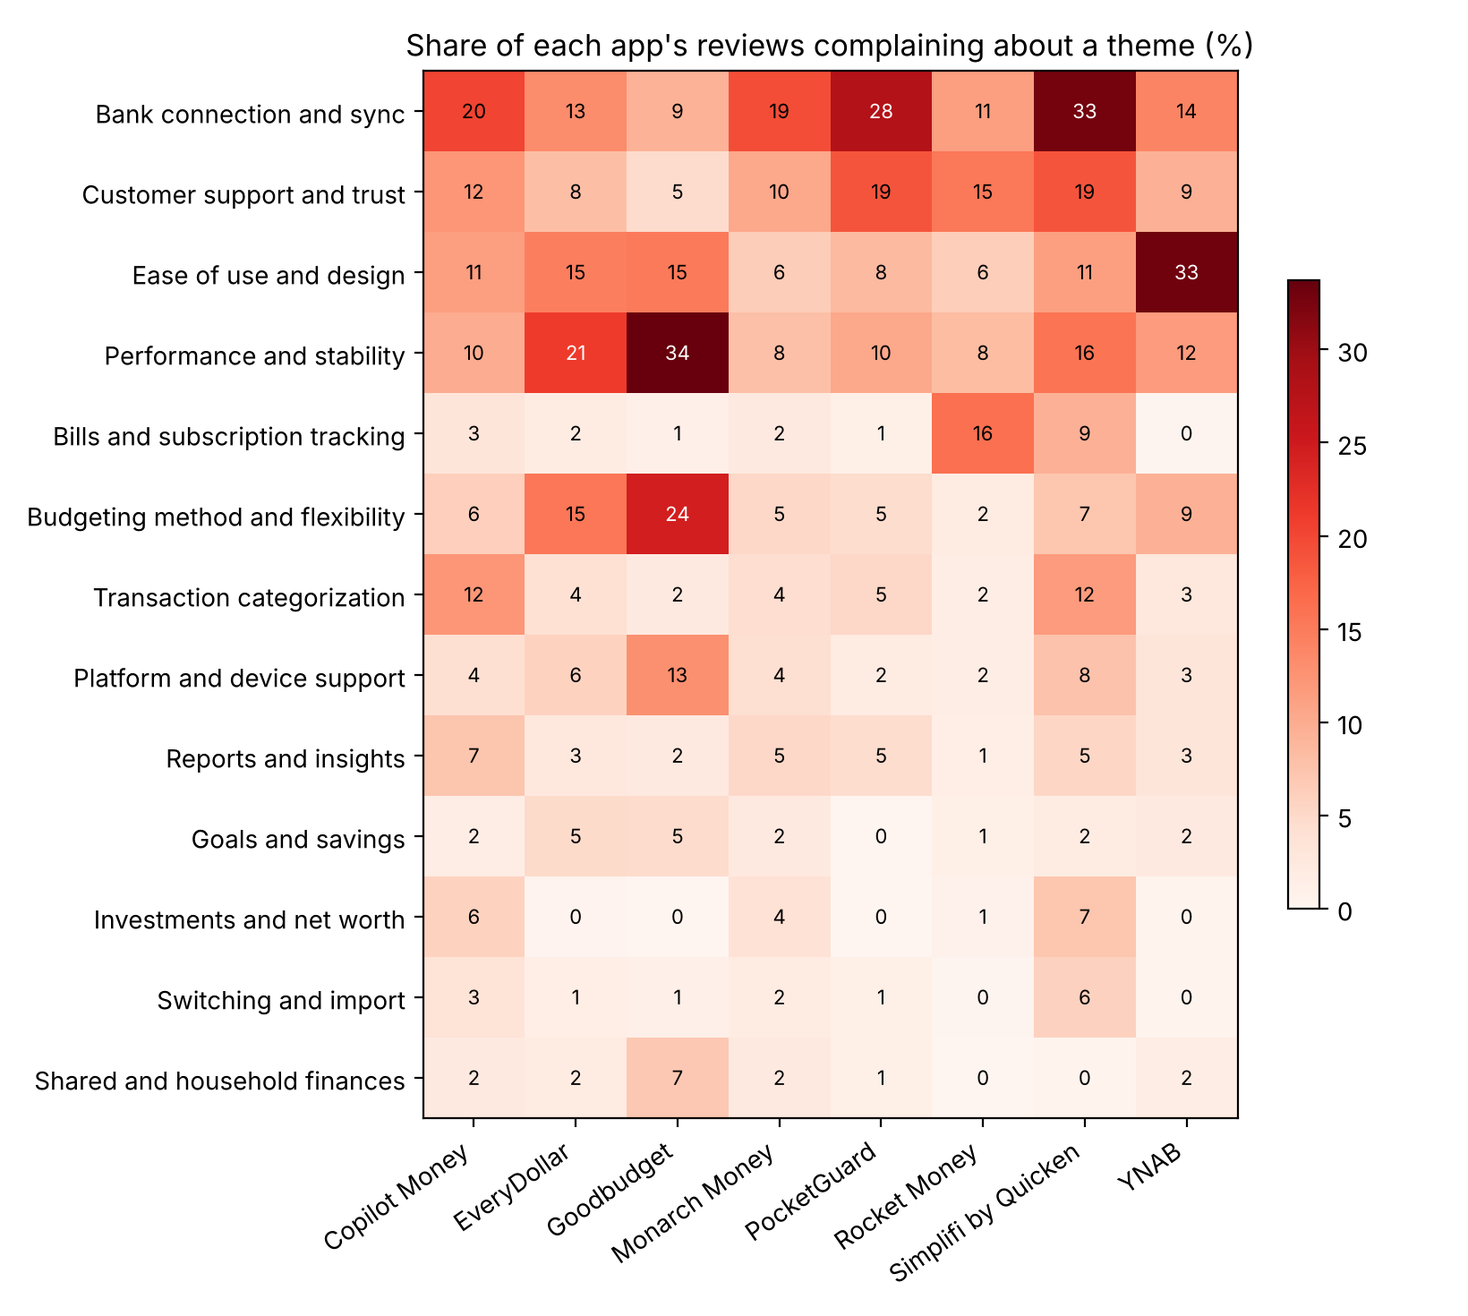
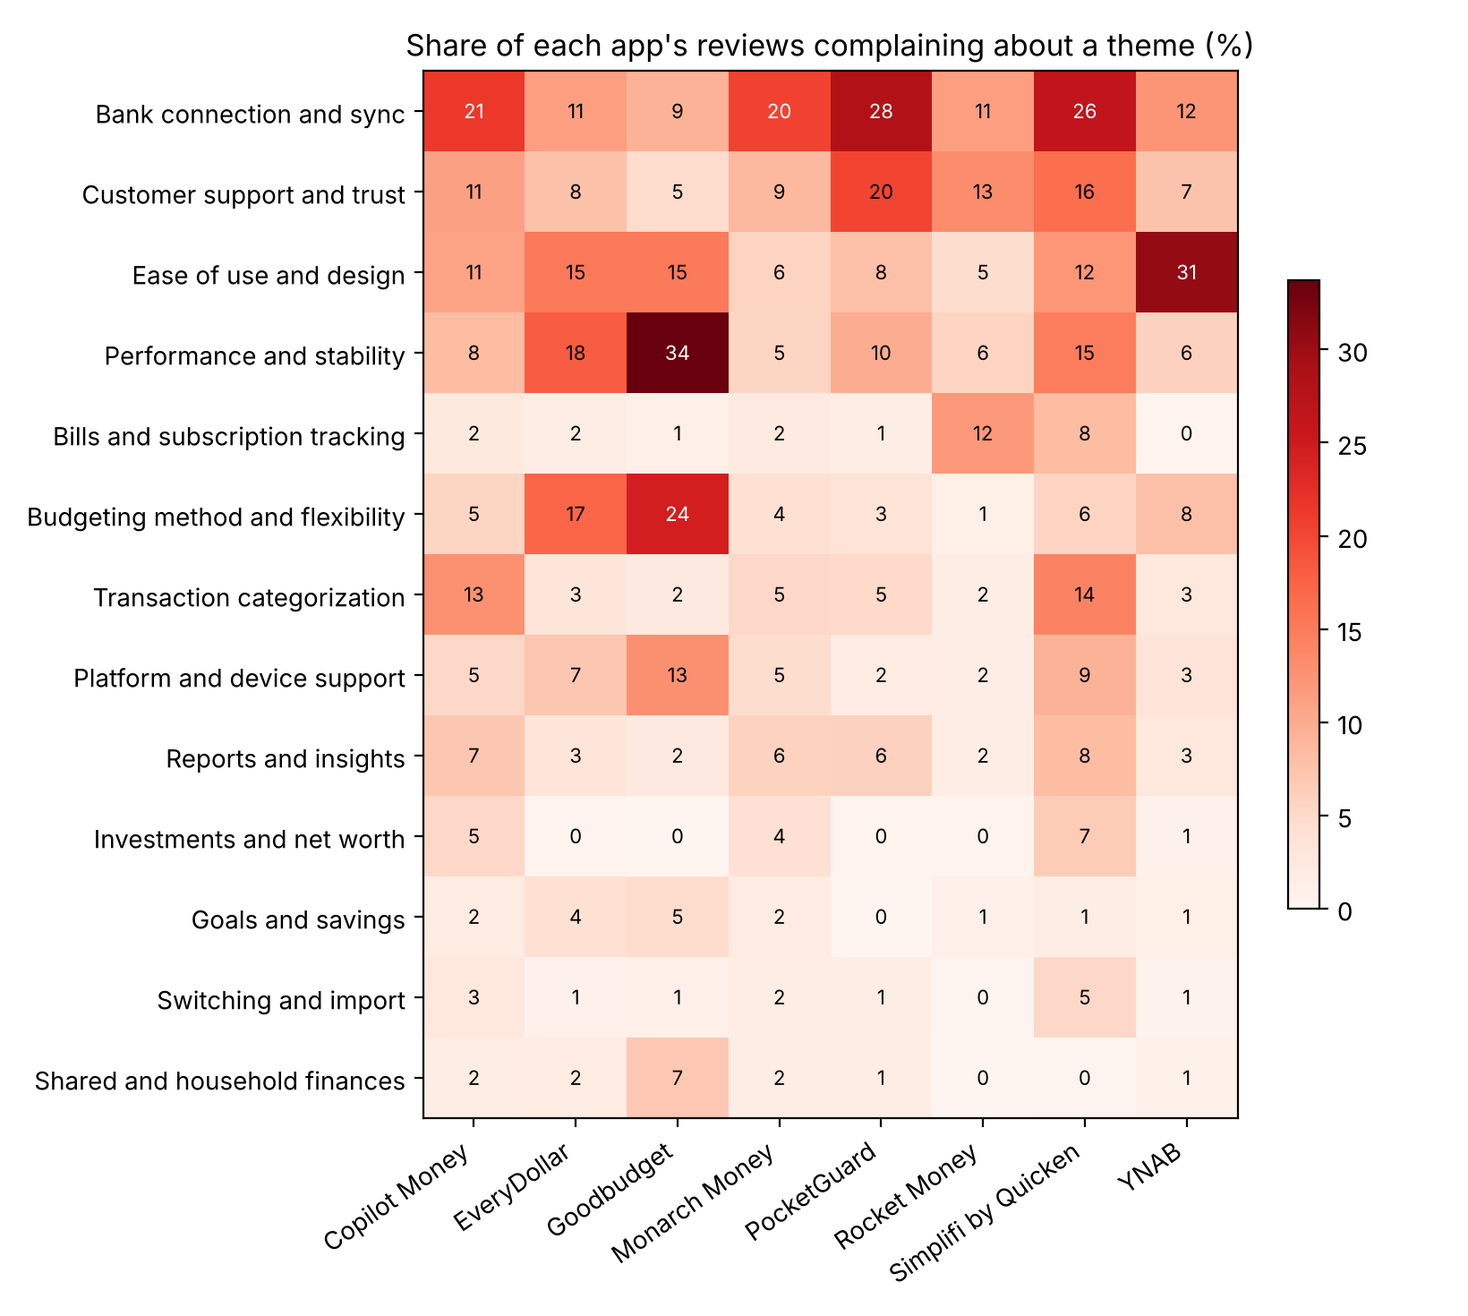
Final report on all 7,396 tagged reviews across 8 apps
Every scraped review is now tagged (2,550 via the API run, 4,846 in
session). Report, charts and tables are rebuilt from the full dataset;
bank sync remains the top cross-app pain point.

diff --git a/reports/REPORT.md b/reports/REPORT.md
@@ -1,44 +1,43 @@
 # State of Budgeting Apps: what users still can't get, from 8 apps' reviews
 
-*4 November 2026. 7,396 App Store and Google Play reviews scraped for 8 budgeting apps (5 Nov 2025 to 3 Nov 2026). 3,392 of them were tagged.*
+*4 November 2026. All 7,396 App Store and Google Play reviews for 8 budgeting apps from the last 12 months (5 Nov 2025 to 3 Nov 2026), every one tagged.*
 
 ## Summary
 
-1. **Broken bank sync is the problem no app has solved.** It's the only theme in the top four for all 8 apps, and it's above 5% of reviews in every one. The median is 16.7% of an app's reviews, ranging from 9.3% for Goodbudget, which is mostly manual entry, to 32.7% for Simplifi. One review in five (676 of 3,392) is about sync, and those reviews average 2.5 stars against 3.4 for the rest.
-2. **Updates are breaking long-time users' routines.** 257 complaint reviews (7.6%) blame a recent update or redesign. They cluster in YNAB (72), EveryDollar (62) and Monarch (43). Ease-of-use complaints reach 32.9% of YNAB's reviews.
-3. **Users can't reach a human for support.** Support and trust complaints exceed 5% in 7 of 8 apps, and reach 18.8% for PocketGuard and Simplifi. The recurring ask is a real person, not a chatbot.
-4. **App-specific gaps sit on top of that.** Rocket Money's subscription cancelling underdelivers (16.2% of its reviews). Goodbudget and EveryDollar have bugs and budget-math problems (33.7% and 21.2% performance complaints). Copilot is iOS only.
+1. **Broken bank sync is the problem no app has solved.** It's complained about in more than 5% of reviews for every one of the 8 apps. The median is 16.4% of an app's reviews, ranging from 9.3% for Goodbudget, which is mostly manual entry, to 27.9% for PocketGuard. Sync comes up in 1,327 reviews (18%), and those average 2.4 stars against 3.5 for the rest. Among international users the share is 77%.
+2. **Updates are breaking long-time users' routines.** 507 complaint reviews (6.9%) blame a recent update or redesign. They cluster in EveryDollar (18% of its reviews), Goodbudget (16%) and YNAB (15%). The most-repeated requests are "fewer taps" (39), "stable UI" (24) and "edit past months" (23).
+3. **Users can't reach a human for support.** Support and trust complaints exceed 5% in 7 of 8 apps, peaking at 20.1% for PocketGuard. Requests for "human support" come from 6 apps, and requests to opt out of AI features from 5.
+4. **App-specific gaps sit on top of that.** Rocket Money's subscription cancelling underdelivers: 26% of its reviews are about subscriptions, with 40 requests for cancellation that works and 31 for detecting every subscription. Goodbudget and EveryDollar have bugs and budget-math problems. YNAB's changes to its interface draw complaints in 30.5% of its reviews.
 
-**Product bet: sync you can trust.** Warn users the moment a connection fails. Refill missing history after a reconnect. Remove duplicates automatically. And say up front which banks work. It's the one gap every app shares, and much of the duplicate, missing-data and wrong-balance trouble traces back to it.
+**Product bet: sync you can trust.** Warn users the moment a connection fails. Refill missing history after a reconnect. Remove duplicates automatically, which users ask for in 7 of the 8 apps. And say up front which banks, credit unions, payment apps and non-US institutions work. It's the one gap every app shares, and much of the duplicate, missing-data and wrong-balance trouble traces back to it.
 
 *Pricing is left out on purpose. Price complaints appear for every paid app and don't point to a product gap. They are kept in the tags but excluded from the rankings and charts.*
 
 ## The data
 
-| App | Reviews scraped | Tagged | Avg rating (tagged) | Share of tagged that are pain |
+| App | Reviews | App Store / Play | Avg rating | Share that are pain |
 |---|---|---|---|---|
-| Rocket Money | 3,000 | 1,207 | 3.22 | 52% |
-| Monarch Money | 1,402 | 689 | 3.43 | 53% |
-| YNAB | 1,003 | 422 | 3.20 | 60% |
-| EveryDollar | 796 | 349 | 3.26 | 61% |
-| Copilot Money (iOS only) | 495 | 262 | 3.71 | 50% |
-| Simplifi by Quicken | 410 | 223 | 2.62 | 74% |
-| PocketGuard | 204 | 154 | 2.98 | 64% |
-| Goodbudget | 86 | 86 | 2.78 | 74% |
-| **Total** | **7,396** | **3,392** | | **57%** |
+| Rocket Money | 3,000 | 326 / 2,674 | 3.42 | 46% |
+| Monarch Money | 1,402 | 586 / 816 | 3.43 | 53% |
+| YNAB | 1,003 | 620 / 383 | 3.29 | 56% |
+| EveryDollar | 796 | 456 / 340 | 3.30 | 63% |
+| Copilot Money (iOS only) | 495 | 495 / 0 | 3.52 | 54% |
+| Simplifi by Quicken | 410 | 225 / 185 | 2.64 | 74% |
+| PocketGuard | 204 | 96 / 108 | 3.03 | 64% |
+| Goodbudget | 86 | 42 / 44 | 2.78 | 74% |
+| **Total** | **7,396** | **2,846 / 4,550** | | **54%** |
 
-Of the tagged reviews, 1,783 are from Google Play and 1,609 from the App Store.
-
-**Pain rate by theme:** the share of an app's tagged reviews that are negative or mixed about a theme, or report a bug, a missing feature or a complaint there.
+**Pain rate by theme:** the share of an app's reviews that are negative or mixed about a theme, or report a bug, a missing feature or a complaint there.
 
 | Theme | Copilot | EveryDollar | Goodbudget | Monarch | PocketGuard | Rocket | Simplifi | YNAB | Median |
 |---|---|---|---|---|---|---|---|---|---|
-| **Bank connection and sync** | 20.2% | 13.2% | 9.3% | 19.4% | **27.9%** | 11.4% | **32.7%** | 14.0% | **16.7%** |
-| Ease of use and design | 11.5% | 14.6% | 15.1% | 6.4% | 8.4% | 6.2% | 11.2% | **32.9%** | 11.4% |
-| Customer support and trust | 12.2% | 8.0% | 4.7% | 10.3% | **18.8%** | 15.4% | **18.8%** | 9.5% | 11.3% |
-| Performance and stability | 9.9% | 21.2% | **33.7%** | 7.8% | 10.4% | 8.3% | 15.7% | 11.6% | 11.0% |
-| Budgeting method | 6.1% | 15.5% | **24.4%** | 5.1% | 4.5% | 2.0% | 7.2% | 9.5% | 6.7% |
-| Bills and subscriptions | 3.1% | 1.7% | 1.2% | 2.3% | 1.3% | **16.2%** | 9.4% | 0.2% | 2.0% |
+| **Bank connection and sync** | 21.4% | 11.3% | 9.3% | 20.4% | **27.9%** | 11.3% | **26.3%** | 12.4% | **16.4%** |
+| Ease of use and design | 10.9% | 15.1% | 15.1% | 5.6% | 7.8% | 4.6% | 12.2% | **30.5%** | 11.6% |
+| Customer support and trust | 11.1% | 7.7% | 4.7% | 8.6% | **20.1%** | 13.2% | 16.3% | 7.4% | 9.9% |
+| Performance and stability | 8.3% | 18.0% | **33.7%** | 5.5% | 9.8% | 5.6% | 14.9% | 5.9% | 9.1% |
+| Budgeting method | 5.5% | 17.2% | **24.4%** | 4.0% | 3.4% | 1.2% | 5.6% | 7.9% | 5.6% |
+| Categorization | 12.7% | 3.1% | 2.3% | 5.1% | 4.9% | 1.7% | **14.1%** | 2.8% | 4.0% |
+| Bills and subscriptions | 2.4% | 1.6% | 1.2% | 2.1% | 1.5% | **11.9%** | 8.3% | 0.5% | 1.9% |
 
 Charts: `figures/pain_gap.png`, `figures/heatmap.png`. Tables: `pain_gap.csv`, `theme_by_app.csv`.
 
@@ -46,7 +45,17 @@ Charts: `figures/pain_gap.png`, `figures/heatmap.png`. Tables: `pain_gap.csv`, `
 
 ### 1. Bank sync, the floor no one has fixed
 
-The complaints repeat across apps: accounts silently disconnect, transactions arrive days late or not at all, reconnecting creates duplicates or wipes history, and some banks aren't supported at all. Several reviews say support blamed Plaid, a third party or a "known issue".
+The complaints repeat across apps: accounts silently disconnect, transactions arrive days late or not at all, reconnecting creates duplicates or wipes history, and some banks aren't supported at all.
+
+The most common sync requests:
+- automatic duplicate removal (22 reviews, 7 apps)
+- faster sync (19)
+- Cash App connection (16)
+- connections that don't depend on Plaid (14)
+- fewer re-authentications (12)
+- multi-currency support (9, 4 apps)
+- Canadian bank connections (9)
+- credit union connections (8)
 
 - "The team unfortunately never advises customers that they are having issues" (PocketGuard, `pocketguard:a:14485863334`)
 - "No notice in the app that it happened" (Copilot, `copilot:a:14709853188`)
@@ -59,13 +68,6 @@ The complaints repeat across apps: accounts silently disconnect, transactions ar
 
 **Why it matters:** "its value depends entirely on being able to sync with your financial institution" (PocketGuard, `pocketguard:a:14553856626`). When sync breaks, every budget, report and alert built on it is wrong.
 
-**The unmet need**, in users' words:
-- tell me when a connection fails
-- refill the gap after I reconnect
-- remove duplicates for me
-- tell me before I pay whether my bank, credit union, Venmo, Cash App or store card works
-- support non-US banks and multiple currencies
-
 ### 2. Updates that break what worked
 
 - "More scrolling and more taps for what used to take one tap" (YNAB, `ynab:a:14158438732`)
@@ -73,40 +75,40 @@ The complaints repeat across apps: accounts silently disconnect, transactions ar
 - "But since it's last upgrade nothing works" (Goodbudget, `goodbudget:g:27a0cf11-aa5d-4792-b32c-9764d74a8c51`)
 - "Why release an update when 2/3 of the tools aren’t even completed?" (PocketGuard, `pocketguard:a:14453021311`)
 
+Long-time users (384 reviews) are among the unhappiest: 60% of their reviews are complaints.
+
 **The unmet need:** stability for loyal users. That means testing before release, a way to keep the old layout, and no locking of data the user still wants to edit.
 
 ### 3. Support that can't escalate
 
 - "a Chatbot is not enough to help me" (Simplifi, `simplifi:a:14667818169`)
 
-When a bank link or the budget's numbers break, users want a ticket that a person actually picks up.
+When a bank link or the budget's numbers break, users want a ticket that a person actually picks up. A smaller but growing thread asks for a way to turn off AI features (12 reviews, 5 apps).
 
 ### 4. App-specific gaps
 
-- **Rocket Money:** subscription detection and cancellation miss many subscriptions (16.2% overall; higher among App Store reviewers).
+- **Rocket Money:** subscription detection and cancellation miss many subscriptions.
 - **Goodbudget and EveryDollar:** envelope totals and budget math break after updates, and EveryDollar's locked past months draw repeated complaints.
-- **YNAB:** churn in the interface (32.9% ease-of-use complaints). Users ask for the progress bars back and fewer taps.
-- **Copilot:** iOS only, and users ask for Android. It also has gaps tracking income categories and investment contributions.
+- **YNAB:** churn in the interface (30.5% ease-of-use complaints). Users ask for the progress bars back and fewer taps.
+- **Copilot and Simplifi:** auto-categorization complaints (12.7% and 14.1%). Copilot is iOS only.
 
 ### Who's happiest
 
-Copilot has the highest average rating (3.71) and the lowest share of complaints (50%). Former Mint users and couples are the most vocal segments: Mint is still the benchmark they compare apps with, and couples want joint and individual views plus per-person roles.
+- **Former Mint users** (165 reviews) average 4.1 stars. More than half of them are on Monarch.
+- **Couples and families** (257 reviews) are the most satisfied segment, with only 26% complaints. Their asks are joint and individual views and per-person roles.
+- **Copilot** has the highest average rating (3.52) and **Rocket Money** has the lowest share of complaints (46%), helped by many short positive Google Play reviews.
 
 ## Method
 
 1. **Collection.** A GitHub Actions workflow (`.github/workflows/scrape.yml`) runs `pipeline.find_ids` and `pipeline.scrape` on a GitHub runner. That's needed because this cloud session can't reach the app stores. It pulled the Apple customer-reviews feed from 7 English-language storefronts and Google Play (en, US) for the last 12 months. Store IDs were checked by hand (`config/apps.json`). Cleaning removed duplicates and reviews under 20 characters, leaving 7,396 reviews.
-2. **Tagging.** 2,550 reviews were tagged by `pipeline.tag` with `claude-opus-5-5` in the `analyze.yml` workflow, at a cost of $6.09. The run stopped when the API account's credit ran out. Another 842 reviews come from a seeded sample that Claude tagged by reading each review in the working session. All tags use the frozen 15-theme codebook (`config/themes.json`). Where a review had both, the API tag is used.
+2. **Tagging.** Every review is tagged against the frozen 15-theme codebook (`config/themes.json`). 2,550 were tagged by `pipeline.tag` with `claude-opus-5-5` in the `analyze.yml` workflow, at a cost of $6.09, before the API account's credit ran out. The other 4,846 were tagged by Claude reading each review in the working session, using the same schema. Where a review had both, the API tag is used.
 3. **Reliability.** 448 reviews were tagged both ways, independently. The two agree on primary theme 80% of the time (Cohen's kappa 0.78), on sentiment 94% (kappa 0.89) and on review type 90% (kappa 0.87). Kappa is agreement after removing what chance alone would give; above 0.6 counts as substantial and above 0.8 as almost perfect.
 4. **Analysis.** `python -m pipeline.analyze`. Pricing and "other" are excluded from the rankings. Every quote was checked word for word against its source review.
 
 ## Limits
 
-- **Not every review is tagged.** 3,392 of the 7,396 are, and Goodbudget (86) and PocketGuard (154) have small samples, so small gaps between apps don't mean much. The cross-app pattern holds: sync is above 5% in all 8 apps.
-- **Uneven samples.** Rocket Money makes up 36% of tagged reviews. Rates are calculated per app, so this doesn't skew comparisons between apps, but category-wide totals lean toward Rocket Money.
+- **Two taggers.** The two methods agree closely (see Reliability above), but they aren't identical.
+- **Uneven volume.** Rocket Money is 41% of all reviews, and Goodbudget (86) and PocketGuard (204) are small. Rates are calculated per app, so this doesn't skew comparisons between apps, but small gaps for the small apps don't mean much.
+- **Free sources cap volume.** Apple's feed returns at most about 500 reviews per storefront, and Google Play reviews are en-US only.
 - **No synthesis briefs.** The per-theme briefs from `pipeline.synthesize` didn't run because the credit ran out. The briefs above were written by hand from the tagged data.
-- **Free sources cap volume.** Apple's feed returns at most about 500 reviews per storefront.
-- **Review bias.** App-store reviewers lean toward the very unhappy and the very happy.
-
-## To finish the full run
-
-Add API credit, then re-run the "Tag and analyze all reviews" workflow. It keeps the 2,550 reviews already tagged and pays only for the other 4,846. At the rate seen so far that's about $12 for tagging, plus roughly $4 for the reliability check and synthesis.
+- **Review bias.** App-store reviewers lean toward the very unhappy and the very happy. Treat rates as the strength of a signal, not as rates across the whole user base.

diff --git a/reports/summary.md b/reports/summary.md
@@ -1,34 +1,34 @@
 # Summary numbers
 
-- Reviews analyzed: **3,392** across **8** apps (Copilot Money, EveryDollar, Goodbudget, Monarch Money, PocketGuard, Rocket Money, Simplifi by Quicken, YNAB)
+- Reviews analyzed: **7,396** across **8** apps (Copilot Money, EveryDollar, Goodbudget, Monarch Money, PocketGuard, Rocket Money, Simplifi by Quicken, YNAB)
 - Date range: 2025-11-05 to 2026-11-03
-- Stores: play 1,783, appstore 1,609
-- Pain reviews (negative/mixed, bug, request or complaint): 56.5%
+- Stores: play 4,550, appstore 2,846
+- Pain reviews (negative/mixed, bug, request or complaint): 53.5%
 
 ## Pain gap (sorted by the best app's complaint rate)
 
 | theme                | theme_name                       |   pain_reviews |   category_pain_rate | best_app    |   best_app_rate | worst_app   |   worst_app_rate |   feature_requests |   avg_rating_when_mentioned |
 |:---------------------|:---------------------------------|---------------:|---------------------:|:------------|----------------:|:------------|-----------------:|-------------------:|----------------------------:|
-| bank_sync            | Bank connection and sync         |            553 |               0.163  | goodbudget  |          0.093  | simplifi    |           0.3274 |                 61 |                        2.47 |
-| performance_bugs     | Performance and stability        |            383 |               0.1129 | monarch     |          0.0784 | goodbudget  |           0.3372 |                 13 |                        1.98 |
-| ux_ease              | Ease of use and design           |            390 |               0.115  | rocketmoney |          0.0621 | ynab        |           0.3294 |                 65 |                        3.55 |
-| support_trust        | Customer support and trust       |            432 |               0.1274 | goodbudget  |          0.0465 | simplifi    |           0.1883 |                 11 |                        1.96 |
-| budgeting_method     | Budgeting method and flexibility |            213 |               0.0628 | rocketmoney |          0.0199 | goodbudget  |           0.2442 |                 67 |                        3.87 |
-| categorization       | Transaction categorization       |            143 |               0.0422 | rocketmoney |          0.0157 | copilot     |           0.1221 |                 52 |                        3.42 |
-| platform_access      | Platform and device support      |            123 |               0.0363 | rocketmoney |          0.0157 | goodbudget  |           0.1279 |                 41 |                        2.93 |
-| reports_insights     | Reports and insights             |            113 |               0.0333 | rocketmoney |          0.0133 | copilot     |           0.0725 |                 48 |                        4.35 |
-| migration            | Switching and import             |             47 |               0.0139 | rocketmoney |          0.0025 | simplifi    |           0.0583 |                 17 |                        4.12 |
-| bills_subscriptions  | Bills and subscription tracking  |            250 |               0.0737 | ynab        |          0.0024 | rocketmoney |           0.1616 |                 38 |                        3.22 |
-| shared_finances      | Shared and household finances    |             46 |               0.0136 | rocketmoney |          0.0008 | goodbudget  |           0.0698 |                 18 |                        4.17 |
-| goals_savings        | Goals and savings                |             70 |               0.0206 | pocketguard |          0      | everydollar |           0.0487 |                 29 |                        4.35 |
-| investments_networth | Investments and net worth        |             68 |               0.02   | goodbudget  |          0      | simplifi    |           0.0717 |                 26 |                        3.77 |
+| bank_sync            | Bank connection and sync         |           1117 |               0.151  | goodbudget  |          0.093  | pocketguard |           0.2794 |                100 |                        2.4  |
+| performance_bugs     | Performance and stability        |            597 |               0.0807 | monarch     |          0.0549 | goodbudget  |           0.3372 |                 14 |                        2.02 |
+| support_trust        | Customer support and trust       |            819 |               0.1107 | goodbudget  |          0.0465 | pocketguard |           0.201  |                 20 |                        1.96 |
+| ux_ease              | Ease of use and design           |            776 |               0.1049 | rocketmoney |          0.046  | ynab        |           0.3051 |                 94 |                        3.36 |
+| categorization       | Transaction categorization       |            308 |               0.0416 | rocketmoney |          0.0167 | simplifi    |           0.1415 |                 91 |                        3.36 |
+| reports_insights     | Reports and insights             |            266 |               0.036  | rocketmoney |          0.0163 | simplifi    |           0.0829 |                111 |                        4.35 |
+| platform_access      | Platform and device support      |            279 |               0.0377 | rocketmoney |          0.0157 | goodbudget  |           0.1279 |                 87 |                        2.91 |
+| budgeting_method     | Budgeting method and flexibility |            387 |               0.0523 | rocketmoney |          0.0123 | goodbudget  |           0.2442 |                121 |                        4.13 |
+| bills_subscriptions  | Bills and subscription tracking  |            454 |               0.0614 | ynab        |          0.005  | rocketmoney |           0.1187 |                 62 |                        3.45 |
+| migration            | Switching and import             |             80 |               0.0108 | rocketmoney |          0.002  | simplifi    |           0.0512 |                 25 |                        4.15 |
+| shared_finances      | Shared and household finances    |             69 |               0.0093 | rocketmoney |          0.0007 | goodbudget  |           0.0698 |                 24 |                        4.33 |
+| goals_savings        | Goals and savings                |            125 |               0.0169 | pocketguard |          0      | goodbudget  |           0.0465 |                 40 |                        4.32 |
+| investments_networth | Investments and net worth        |            130 |               0.0176 | goodbudget  |          0      | simplifi    |           0.0659 |                 51 |                        3.82 |
 
 ## Growing complaints (last 3 months vs earlier)
 
 |                     |   recent_share |   earlier_share |   change_pts |
 |:--------------------|---------------:|----------------:|-------------:|
-| bills_subscriptions |         0.1032 |          0.0555 |         4.76 |
-| support_trust       |         0.1422 |          0.124  |         1.82 |
-| performance_bugs    |         0.1159 |          0.1166 |        -0.08 |
-| bank_sync           |         0.1485 |          0.1655 |        -1.7  |
-| ux_ease             |         0.0938 |          0.1171 |        -2.33 |
+| bills_subscriptions |         0.0899 |          0.0498 |         4.01 |
+| support_trust       |         0.1348 |          0.1036 |         3.12 |
+| performance_bugs    |         0.1031 |          0.0803 |         2.28 |
+| ux_ease             |         0.0981 |          0.103  |        -0.48 |
+| bank_sync           |         0.1424 |          0.1511 |        -0.87 |
